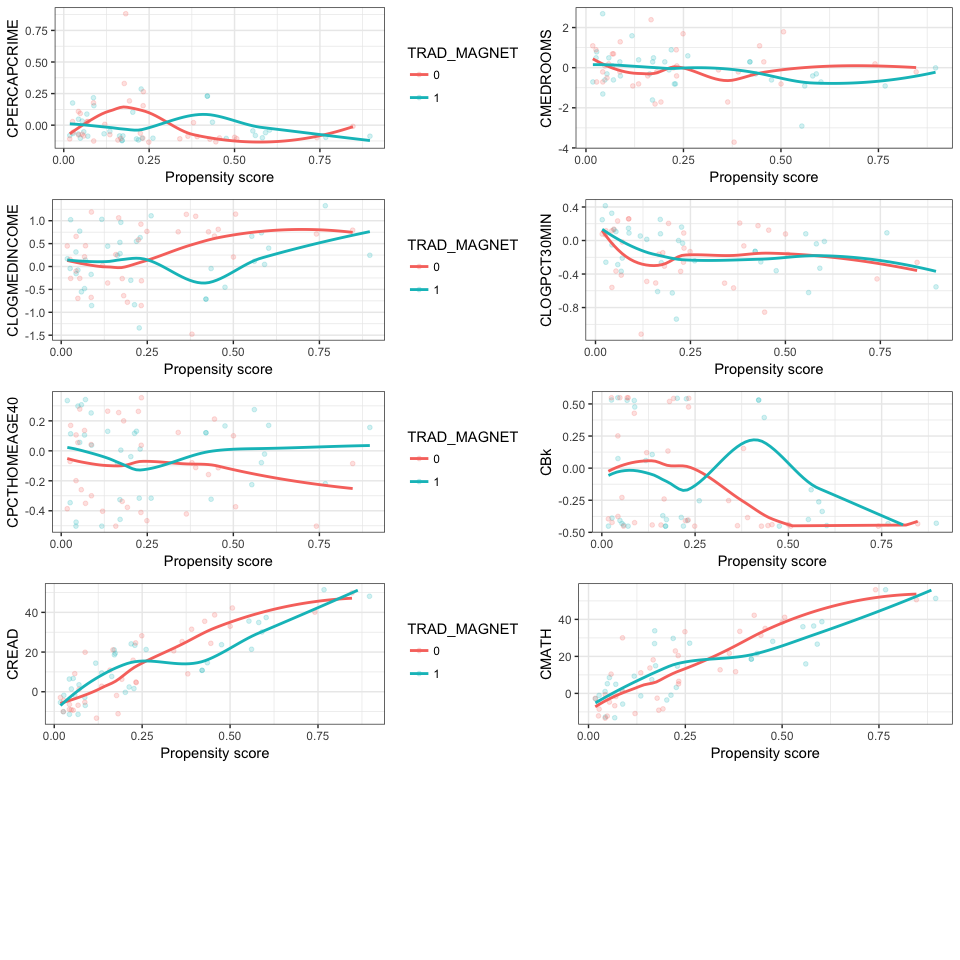
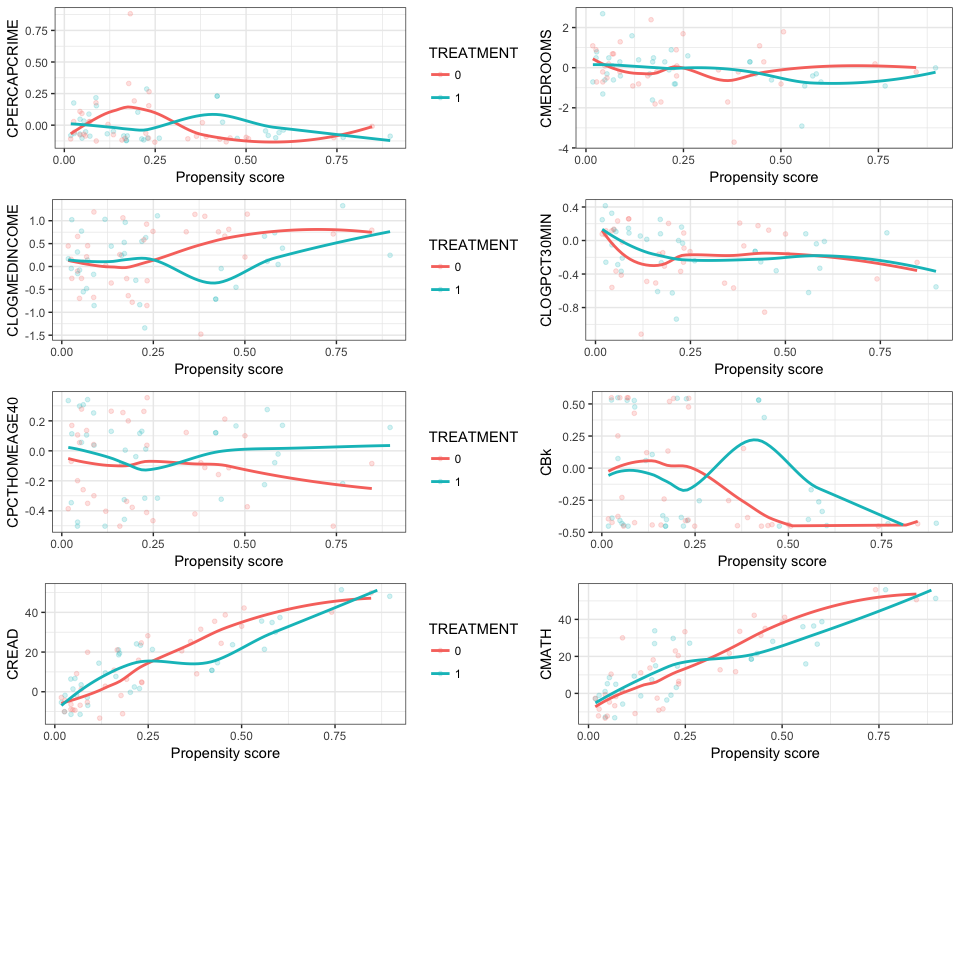
propensity score edits

diff --git a/Chicago_Magnet_Analysis.md b/Chicago_Magnet_Analysis.md
@@ -464,7 +464,7 @@ source(file.path(Diagnostics_Directory,"diagnostics.R"))
 
     ## [1] "Test for Autocorrelated Errors"
     ##  lag Autocorrelation D-W Statistic p-value
-    ##    1     -0.05313961      2.098962    0.43
+    ##    1     -0.05313961      2.098962    0.47
     ##  Alternative hypothesis: rho != 0
 
 Sensitivity Analysis
@@ -475,23 +475,23 @@ Sensitivity Analysis
 #### Propensity scores
 
 ``` r
-#data$NEIGHBORHOOD<-0; data$NEIGHBORHOOD[data$Type2=="Open Enrollment"]<-1
-#data$CLUSTER<-0; data$CLUSTER[data$Type2=="Magnet Cluster"]<-1
-data$TRAD_MAGNET<-0; data$TRAD_MAGNET[data$Type2=="Magnet"]<-1
-m_ps <- glm(TRAD_MAGNET ~ CPERCAPCRIME+CMEDROOMS+CMEDROOMS2+CLOGMEDINCOME+CLOGPCT30MIN+CPCTHOMEAGE40+CBk+CBk2+CREAD+CMATH, family = binomial(), data = data)
-prs_df<-data.frame(pr_score = predict(m_ps, type = "response"), TRAD_MAGNET = m_ps$model$TRAD_MAGNET)
+# Define Treatment school
+data$TREATMENT<-NA
+data$TREATMENT<-ifelse(data$Type2=="Magnet",1,0) # "Open Enrollment" and "Magnet Cluster" reference
+m_ps <- glm(TREATMENT ~ CPERCAPCRIME+CMEDROOMS+CMEDROOMS2+CLOGMEDINCOME+CLOGPCT30MIN+CPCTHOMEAGE40+CBk+CBk2+CREAD+CMATH, family = binomial(), data = data)
+prs_df<-data.frame(pr_score = predict(m_ps, type = "response"), TREATMENT = m_ps$model$TREATMENT)
 ```
 
 #### Common Support
 
 ``` r
-labs <- paste("Actual school type attended:", c("Traditional Magnet", "Other"))
+labs <- paste("Actual school type attended:", c("Treatment School", "Non-treatment School"))
 prs_df %>%
-  mutate(magnet = ifelse(TRAD_MAGNET == 1, labs[1], labs[2])) %>%
+  mutate(TREATMENT = ifelse(TREATMENT == 1, labs[1], labs[2])) %>%
   ggplot(aes(x = pr_score)) +
   geom_histogram(color = "white") +
-  facet_wrap(~magnet) +
-  xlab("Probability of going to a Traditional Magnet") +
+  facet_wrap(~TREATMENT) +
+  xlab("Probability of going to the treatment school type") +
   theme_bw()
 ```
 
@@ -502,10 +502,10 @@ prs_df %>%
 ``` r
 data_cov<-c('CPERCAPCRIME','CMEDROOMS','CMEDROOMS2','CLOGMEDINCOME','CLOGPCT30MIN','CPCTHOMEAGE40','CBk','CBk2','CREAD','CMATH')
 data_nomiss <- data %>%  # MatchIt does not allow missing values
-  select(MEDVALUE, TRAD_MAGNET, one_of(data_cov)) %>%
+  select(MEDVALUE, TREATMENT, one_of(data_cov)) %>%
   na.omit()
 
-mod_match <- matchit(TRAD_MAGNET ~ CPERCAPCRIME+CMEDROOMS+CMEDROOMS2+CLOGMEDINCOME+CLOGPCT30MIN+CPCTHOMEAGE40+CBk+CBk2+CREAD+CMATH, method = "nearest", data = data_nomiss)
+mod_match <- matchit(TREATMENT ~ CPERCAPCRIME+CMEDROOMS+CMEDROOMS2+CLOGMEDINCOME+CLOGPCT30MIN+CPCTHOMEAGE40+CBk+CBk2+CREAD+CMATH, method = "nearest", data = data_nomiss)
 
 dta_m <- match.data(mod_match)
 dim(dta_m)
@@ -516,7 +516,6 @@ dim(dta_m)
 #### Visual Inspection
 
 ``` r
-library(gridExtra)
 grid.arrange(
    fn_bal(dta_m, "CPERCAPCRIME"),
    fn_bal(dta_m, "CMEDROOMS") + theme(legend.position = "none"),
@@ -542,29 +541,29 @@ grid.arrange(
 
 ``` r
 dta_m %>%
-  group_by(TRAD_MAGNET) %>%
+  group_by(TREATMENT) %>%
   select(one_of(data_cov)) %>%
   summarise_all(funs(mean))
 ```
 
     ## # A tibble: 2 x 11
-    ##   TRAD_MAGNET CPERCAPCRIME   CMEDROOMS CMEDROOMS2 CLOGMEDINCOME
-    ##         <dbl>        <dbl>       <dbl>      <dbl>         <dbl>
-    ## 1           0  0.007096608 -0.06822533  1.2996751     0.2355267
-    ## 2           1 -0.012764511 -0.13679676  0.8983378     0.1428872
-    ## # ... with 6 more variables: CLOGPCT30MIN <dbl>, CPCTHOMEAGE40 <dbl>,
-    ## #   CBk <dbl>, CBk2 <dbl>, CREAD <dbl>, CMATH <dbl>
+    ##   TREATMENT CPERCAPCRIME   CMEDROOMS CMEDROOMS2 CLOGMEDINCOME CLOGPCT30MIN
+    ##       <dbl>        <dbl>       <dbl>      <dbl>         <dbl>        <dbl>
+    ## 1         0  0.007096608 -0.06822533  1.2996751     0.2355267   -0.1618604
+    ## 2         1 -0.012764511 -0.13679676  0.8983378     0.1428872   -0.1179443
+    ## # ... with 5 more variables: CPCTHOMEAGE40 <dbl>, CBk <dbl>, CBk2 <dbl>,
+    ## #   CREAD <dbl>, CMATH <dbl>
 
 #### Statistical Test of Treatment
 
 ``` r
-lm_treat <- lm(log(MEDVALUE) ~ TRAD_MAGNET, data = dta_m)
+lm_treat <- lm(log(MEDVALUE) ~ TREATMENT, data = dta_m)
 summary(lm_treat)
 ```
 
     ## 
     ## Call:
-    ## lm(formula = log(MEDVALUE) ~ TRAD_MAGNET, data = dta_m)
+    ## lm(formula = log(MEDVALUE) ~ TREATMENT, data = dta_m)
     ## 
     ## Residuals:
     ##      Min       1Q   Median       3Q      Max 
@@ -573,7 +572,7 @@ summary(lm_treat)
     ## Coefficients:
     ##             Estimate Std. Error t value Pr(>|t|)    
     ## (Intercept) 12.50908    0.09806 127.561   <2e-16 ***
-    ## TRAD_MAGNET -0.03658    0.13868  -0.264    0.793    
+    ## TREATMENT   -0.03658    0.13868  -0.264    0.793    
     ## ---
     ## Signif. codes:  0 '***' 0.001 '**' 0.01 '*' 0.05 '.' 0.1 ' ' 1
     ## 
